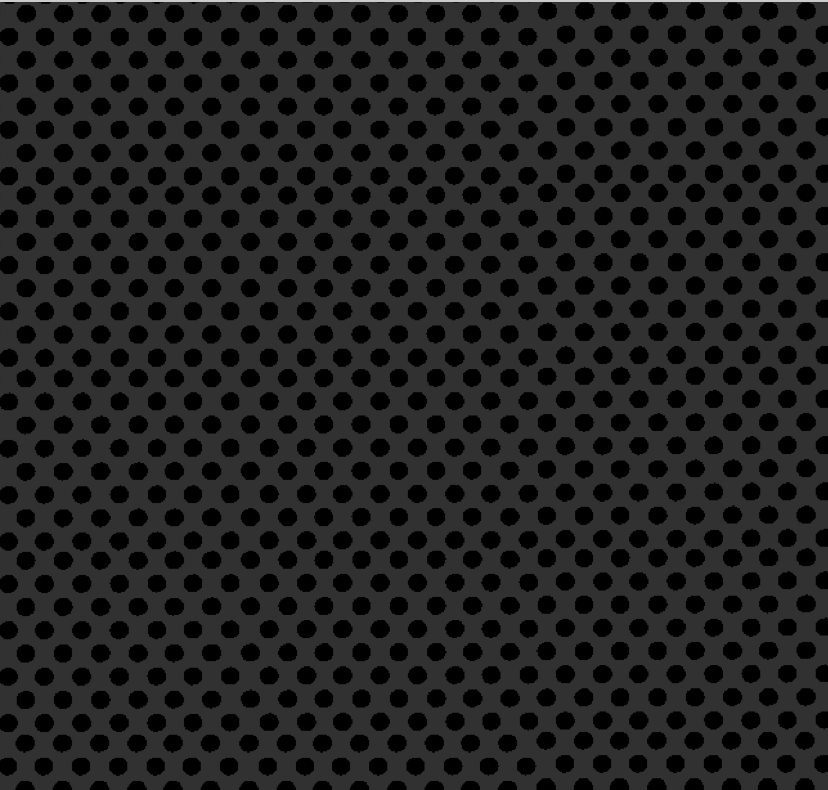
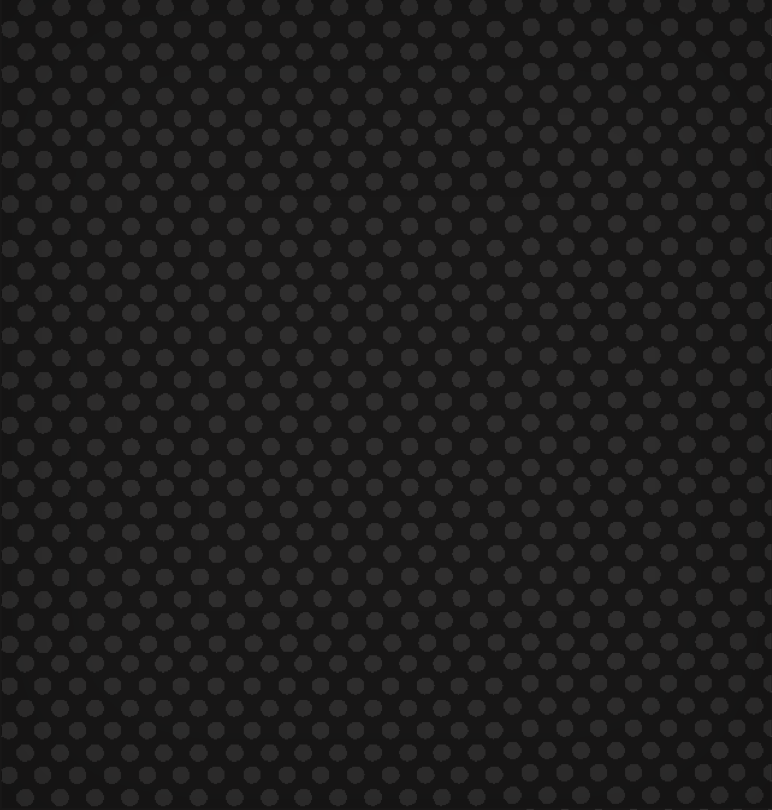
UI updates & Add sass

diff --git a/assets_src/sass/base.scss b/assets_src/sass/base.scss
@@ -1,0 +1,144 @@
+html,
+body {
+  margin: 0;
+  padding: 0;
+}
+
+html {
+  height: 100%;
+}
+
+body {
+  height: 100%;
+  background-color: #1a1a1a;
+}
+
+#secret_youtube_players {
+  display: none;
+}
+
+.player {
+  width: 100%;
+  height: 100%;
+  position: fixed;
+  top: 0;
+  left: 0;
+}
+
+.radio-channel {
+  position: relative;
+  padding: 80px 20px 0;
+}
+
+.grill {
+  width: 100%;
+  height: 280px;
+  background-image: radial-gradient(50% 100%, #BD10E0 25%, #FF0073 100%);
+  position: absolute;
+  bottom: 0;
+}
+
+.grill-state-1 {
+  background-image: radial-gradient(50% 100%, #BD10E0 25%, #FF0073 100%);
+}
+
+.grill:before {
+  width: calc(100% - 20px);
+  height: calc(100% - 20px);
+  background: url('/client_assets/grille.png') no-repeat center center / cover;
+  position: absolute;
+  top: 10px;
+  left: 10px;
+  display: block;
+  content: "";
+  z-index: 2;
+  border-radius: 8px;
+}
+
+.grill:after {
+  width: 90px;
+  height: 63px;
+  background: url('/client_assets/logo.png') no-repeat center center / cover;
+  position: absolute;
+  left: 50%;
+  top: 50%;
+  transform: translate(-50%, -50%);
+  display: block;
+  content: "";
+  z-index: 2;
+  animation: grill_logo_pulse 4000ms ease-in-out infinite alternate;
+}
+
+@keyframes grill_logo_pulse {
+  from {
+    transform: translate(-50%, -50%) scale(1, 1);
+  }
+  to {
+    transform: translate(-50%, -50%) scale(1.1, 1.1);
+  }
+}
+
+.radio-channel__live,
+.radio-channel__name {
+  font-family: 'Roboto';
+}
+
+.radio-channel__live {
+  font-size: 16px;
+  font-weight: 700;
+  color: #FF0073;
+}
+
+.radio-channel__name {
+  font-size: 36px;
+  font-weight: 900;
+  color: #fff;
+  margin: 0;
+  padding: 0;
+}
+
+.app {
+  height: 100vh;
+  width: 100%;
+}
+
+.app__top {
+  height: 60vh;
+  width: 100%;
+  background-color: #f5f5f5;
+  position: relative;
+}
+
+
+.app__top__interaction {
+  width: 100%;
+  height: 120px;
+  background-color: #fff;
+  position: absolute;
+  bottom: 0;
+}
+
+.radio-settings {
+  width: 100%;
+  height: calc(60vh - 120px);
+  display: flex;
+  align-items: center;
+  justify-content: center;
+}
+
+
+.app__grille {
+  height: 40vh;
+  width: 100%;
+  background: url(/client_assets/grille.png) no-repeat center center / cover;
+  position: relative;
+}
+
+.app__grille:before {
+  background: url(/client_assets/logo.png) no-repeat center center / contain;
+  position: absolute;
+  width: 60%;
+  height: 100%;
+  left: 20%;
+  content: "";
+}

diff --git a/index.js b/index.js
@@ -1,6 +1,7 @@
 var express = require('express')
 var app = express()
 var mustacheExpress = require('mustache-express');
+var sassMiddleware = require('node-sass-middleware');
 
 var RadioChannel = require('./models/radioChannel')
 
@@ -10,11 +11,26 @@ app.engine('mustache', mustacheExpress());
 app.set('view engine', 'mustache');
 app.set('view cache', false);
 
+app.use(sassMiddleware({
+  src: app.get('views'),
+  outputStyle: 'compressed',
+  response: true
+}));
+
+app.use(sassMiddleware({
+  /* Options */
+  src: __dirname + '/assets_src/sass',
+  dest: __dirname + '/public',
+  debug: true,
+  response: true,
+  outputStyle: 'compressed'
+}));
+
 app.use(express.static('public'));
 
 
 app.get('/', function(req, res) {
-  res.render('home');
+  res.render('player');
 });
 
 app.get('/geohash/:geohash', function(req, res) {
